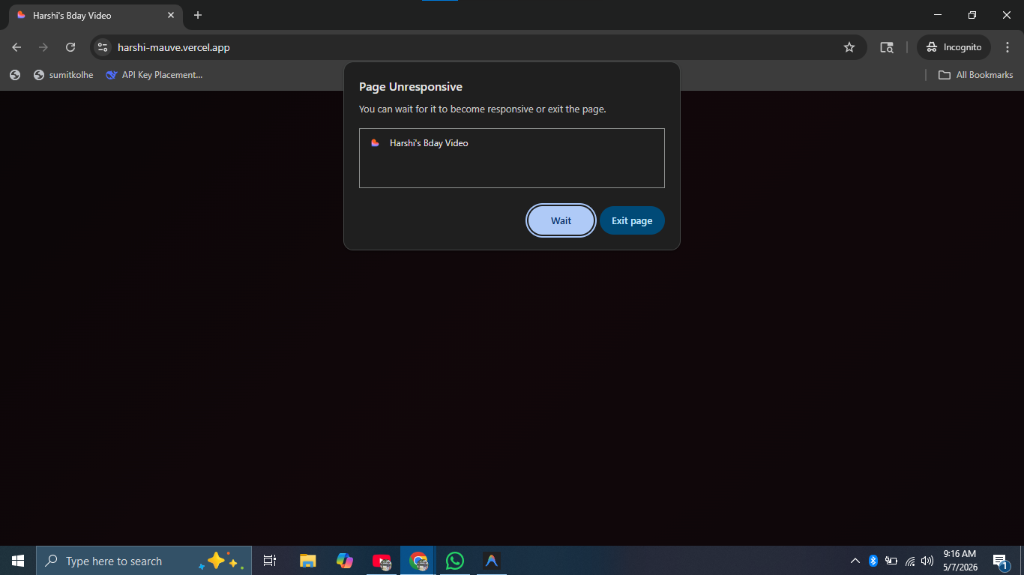
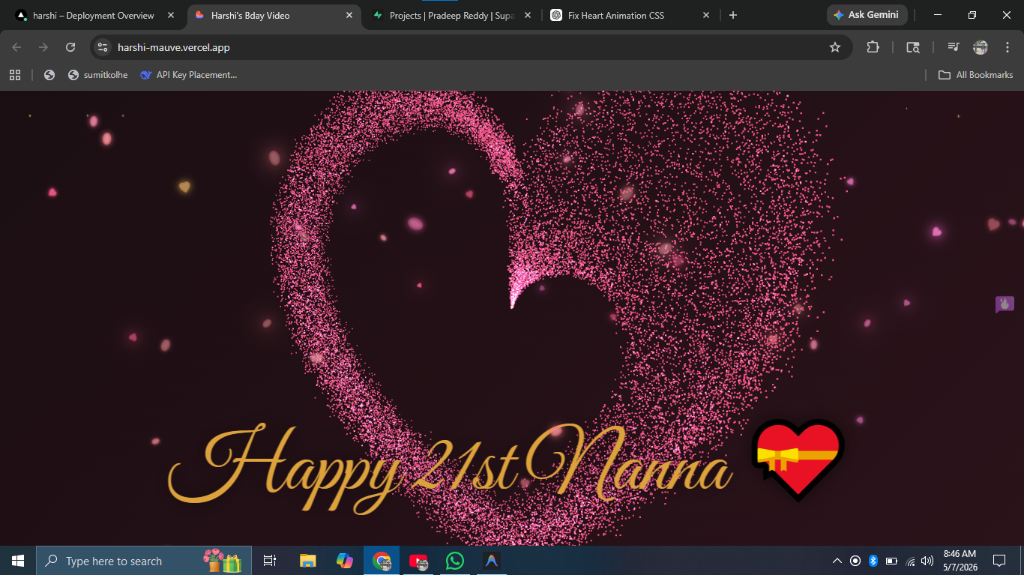
Fixed notifications, overview polling, and wired up reject deletion

diff --git a/src/components/HeartScene.tsx b/src/components/HeartScene.tsx
@@ -99,47 +99,81 @@ const HeartScene = ({ onComplete }: HeartSceneProps) => {
     mountRef.current.appendChild(renderer.domElement);
 
     // ── Dense particles with GSAP per-particle timeline (exact match) ─────
-    // i += 0.05 → ~36,000 particles (High density)
+    // i += 0.075 → ~24,000 particles (High density, fast loading)
     tl = gsap.timeline({ repeat: -1, yoyo: true });
     const vertices: THREE.Vector3[] = [];
 
-    for (let i = 0; i < length; i += 0.05) {
-      const point = path.getPointAtLength(i);
-      // Center the heart by subtracting the midpoint (300, 276)
-      const vector = new THREE.Vector3(point.x - 300, -(point.y - 276), 0);
-      vector.x += (Math.random() - 0.5) * 30;
-      vector.y += (Math.random() - 0.5) * 30;
-      vector.z += (Math.random() - 0.5) * 70;
-      vertices.push(vector);
+    // Chunked initialization to prevent browser freeze
+    let currentIndex = 0;
+    const chunkSize = 1000;
+    
+    const processChunk = () => {
+      const end = Math.min(currentIndex + chunkSize, length);
+      for (let i = currentIndex; i < end; i += 0.05) {
+        const point = path.getPointAtLength(i);
+        // Center the heart by subtracting the midpoint (300, 276)
+        const vector = new THREE.Vector3(point.x - 300, -(point.y - 276), 0);
+        vector.x += (Math.random() - 0.5) * 30;
+        vector.y += (Math.random() - 0.5) * 30;
+        vector.z += (Math.random() - 0.5) * 70;
+        vertices.push(vector);
 
-      tl.from(
-        vector,
-        {
-          x: 0,
-          y: 0,
-          z: 0,
-          ease: "power2.inOut",
-          duration: 1.2 + Math.random() * 1.5,
-        },
-        i * 0.0001
+        tl.from(
+          vector,
+          {
+            x: 0,
+            y: 0,
+            z: 0,
+            ease: "power2.inOut",
+            duration: 1.2 + Math.random() * 1.5,
+          },
+          i * 0.0001
+        );
+      }
+      
+      currentIndex = end;
+      if (currentIndex < length) {
+        // Fast recursion
+        setTimeout(processChunk, 10);
+      } else {
+        finalizeScene();
+      }
+    };
+
+    processChunk();
+
+    const finalizeScene = () => {
+      geometry = new THREE.BufferGeometry().setFromPoints(vertices);
+      material = new THREE.PointsMaterial({
+        color:    0xee5282,
+        blending: THREE.AdditiveBlending,
+        size:     3,
+      });
+
+      const particles = new THREE.Points(geometry, material);
+      // Since we centered the vertices, the container can stay at 0,0
+      const scale = 1.15;
+      particles.position.set(0, 0, 0);
+      particles.scale.set(0, 0, 0); 
+      scene.add(particles);
+
+      gsap.to(particles.scale, { x: scale, y: scale, z: scale, duration: 4, ease: "power2.out", delay: 0.5 });
+
+      // Gentle left-right sway
+      gsap.fromTo(
+        scene.rotation,
+        { y: -0.2 },
+        { y: 0.2, repeat: -1, yoyo: true, ease: "power2.inOut", duration: 3 }
       );
-    }
 
-    geometry = new THREE.BufferGeometry().setFromPoints(vertices);
-    material = new THREE.PointsMaterial({
-      color:    0xee5282,
-      blending: THREE.AdditiveBlending,
-      size:     3,
-    });
-
-    const particles = new THREE.Points(geometry, material);
-    // Since we centered the vertices, the container can stay at 0,0
-    const scale = 1.15;
-    particles.position.set(0, 0, 0);
-    particles.scale.set(0, 0, 0); 
-    scene.add(particles);
-
-    gsap.to(particles.scale, { x: scale, y: scale, z: scale, duration: 4, ease: "power2.out", delay: 0.5 });
+      // ── Render loop ───────────────────────────────────────────────────────
+      const render = () => {
+        animId = requestAnimationFrame(render);
+        geometry.setFromPoints(vertices);
+        renderer.render(scene, camera);
+      };
+      render();
+    };
 
     // Gentle left-right sway
     gsap.fromTo(
@@ -148,13 +182,6 @@ const HeartScene = ({ onComplete }: HeartSceneProps) => {
       { y: 0.2, repeat: -1, yoyo: true, ease: "power2.inOut", duration: 3 }
     );
 
-    // ── Render loop ───────────────────────────────────────────────────────
-    const render = () => {
-      animId = requestAnimationFrame(render);
-      geometry.setFromPoints(vertices);
-      renderer.render(scene, camera);
-    };
-    render();
 
     onResize = () => {
       camera.aspect = window.innerWidth / window.innerHeight;
@@ -329,7 +356,6 @@ const HeartScene = ({ onComplete }: HeartSceneProps) => {
           className="w-[310px] h-[310px] sm:w-[465px] sm:h-[465px] md:w-[620px] md:h-[620px] relative flex items-center justify-center overflow-hidden"
           style={{
             background: "transparent",
-            filter: "drop-shadow(0 0 50px hsla(342, 82%, 56%, 0.5))",
           }}
         >
           {/* SVG definition for the clipPath */}

diff --git a/src/pages/Index.tsx b/src/pages/Index.tsx
@@ -2,18 +2,16 @@ import { useState, useCallback } from "react";
 import { motion, AnimatePresence } from "framer-motion";
 import OpeningPage from "@/components/OpeningPage";
 import GallerySection from "@/components/GallerySection";
-import ScrollingText from "@/components/ScrollingText";
 import HeartScene from "@/components/HeartScene";
 import BackgroundMusic from "@/components/BackgroundMusic";
 import FinalPage from "@/components/FinalPage";
 
-type Section = "opening" | "gallery" | "text" | "heart" | "final";
+type Section = "opening" | "gallery" | "heart" | "final";
 
 const Index = () => {
   const [section, setSection] = useState<Section>("opening");
 
   const goToGallery = useCallback(() => setSection("gallery"), []);
-  const goToText = useCallback(() => setSection("text"), []);
   const goToHeart = useCallback(() => setSection("heart"), []);
   const goToFinal = useCallback(() => setSection("final"), []);
 
@@ -38,17 +36,7 @@ const Index = () => {
             animate={{ opacity: 1 }}
             exit={{ opacity: 0 }}
           >
-            <GallerySection onComplete={goToText} />
-          </motion.div>
-        )}
-        {section === "text" && (
-          <motion.div
-            key="text"
-            initial={{ opacity: 0 }}
-            animate={{ opacity: 1 }}
-            exit={{ opacity: 0 }}
-          >
-            <ScrollingText onComplete={goToHeart} />
+            <GallerySection onComplete={goToHeart} />
           </motion.div>
         )}
         {section === "heart" && (

diff --git a/src/components/GallerySection.tsx b/src/components/GallerySection.tsx
@@ -6,7 +6,8 @@ const GRID_IMAGES = [
   "/gallery/g2.jpg",
   "/gallery/g3.jpg",
   "/gallery/g4.jpg",
-  "/gallery/g5.jpg"
+  "/gallery/g5.jpg",
+  "/gallery/image.png"
 ];
 
 const FINAL_IMAGE = "/gallery/final.jpeg";
@@ -38,7 +39,7 @@ const GallerySection = ({ onComplete }: GallerySectionProps) => {
     if (isFinal) {
       const timer = setTimeout(() => {
         onComplete();
-      }, 5000); // Show final image for 5 seconds
+      }, 15000); // Show final image for 15 seconds
       return () => clearTimeout(timer);
     }
   }, [isFinal, onComplete]);
@@ -133,7 +134,8 @@ const GallerySection = ({ onComplete }: GallerySectionProps) => {
                     "---",
                     "In a time where many girls cross all boundaries without restraint,",
                     "she is like a moonlight beauty who has gracefully set her own limits —",
-                    "soft, serene, and rare… a soul that shines with quiet dignity and self-respect"
+                    "soft, serene, and rare… a soul that shines with quiet dignity and self-respect",
+                    "Forever grateful to you Nanna"
                   ].map((line, idx) => (
                     <motion.p
                       key={idx}